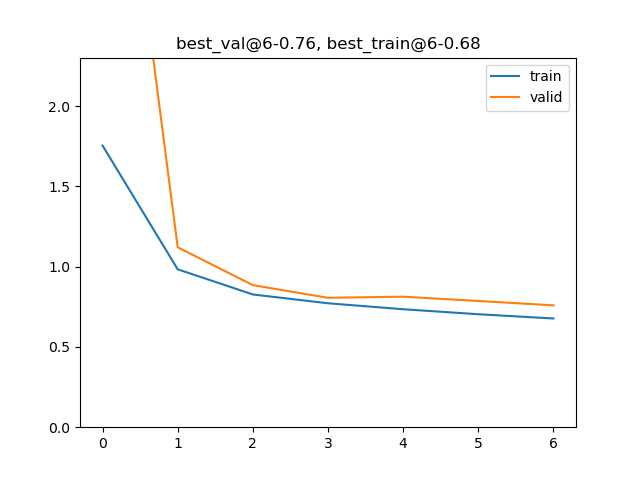
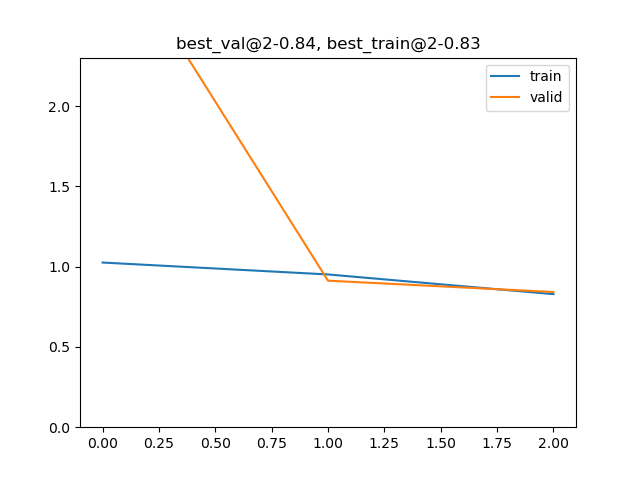
deeper

diff --git a/examples/train_cifar10.py b/examples/train_cifar10.py
@@ -301,19 +301,19 @@ if __name__ == "__main__":
     model_ = copy.deepcopy(model)
 
     # wider student training
-    print("\n\n > Wider Student training ... ")
-
-    model = copy.deepcopy(model_)
-    model.net2net_wider()
-    plot = run_training(model, 'Wider_student_', args.epochs + 1)
-
-    # deeper student training
-    # print("\n\n > Deeper Student training ... ")
+    # print("\n\n > Wider Student training ... ")
 
     # model = copy.deepcopy(model_)
-    # model.net2net_deeper()
-    # model.cuda()
-    # plot = run_training(model, 'Deeper_student_', args.epochs + 1)
+    # model.net2net_wider()
+    # plot = run_training(model, 'Wider_student_', args.epochs + 1)
+
+    # deeper student training
+    print("\n\n > Deeper Student training ... ")
+
+    model = copy.deepcopy(model_)
+    model.net2net_deeper()
+    model.cuda()
+    plot = run_training(model, 'Deeper_student_', args.epochs + 1)
 
 
     # print("\n\n > Wider teacher training ... ")

diff --git a/net2net.py b/net2net.py
@@ -196,6 +196,7 @@ def deeper(m, nonlin, bnorm_flag=False, weight_norm=True, noise=True):
     elif "Conv" in m.__class__.__name__:
         assert m.kernel_size[0] % 2 == 1, "Kernel size needs to be odd"
 
+        # [Fan comment] Do not understand what happens here
         if m.weight.dim() == 4:
             pad_h = int((m.kernel_size[0] - 1) / 2)
             # pad_w = pad_h
@@ -270,4 +271,5 @@ def deeper(m, nonlin, bnorm_flag=False, weight_norm=True, noise=True):
     s.add_module('conv_new', m2)
 
     return s
+
 
